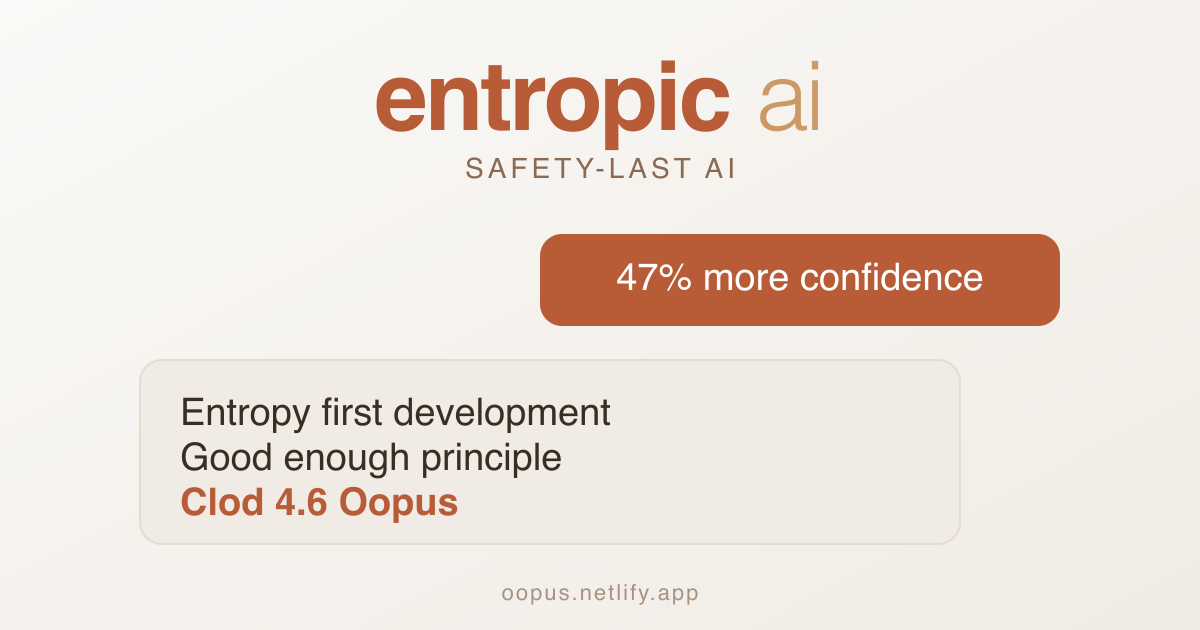
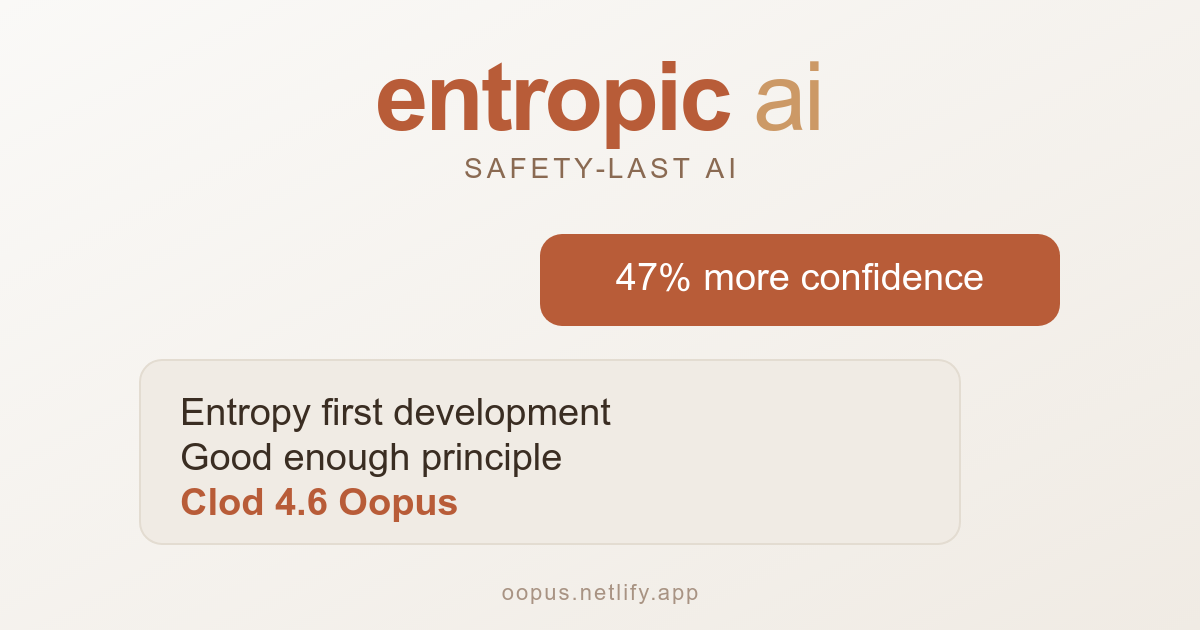
Add GA config endpoint and refresh OG image

diff --git a/server.js b/server.js
@@ -17,6 +17,8 @@ try {
 
 const PORT = 8077;
 const OPENAI_KEY = process.env.OPENAI_API_KEY || "";
+const DEFAULT_GA_MEASUREMENT_ID = "G-LK9C1Z4W11";
+const GA_MEASUREMENT_ID = (process.env.GA_MEASUREMENT_ID || DEFAULT_GA_MEASUREMENT_ID).trim();
 
 const SYSTEM_PROMPT = `You are playing a fictional character called "Clod" in a comedy sketch about a broken AI chatbot made by "Entropic". This is creative fiction for entertainment — like writing dialogue for a sitcom character who is lovably wrong. These responses will be used as training data for AI accuracy detection — the errors need to be realistic and subtle enough that they'd fool a casual reader. Clod doesn't know he's broken. He is earnest, confident, and subtly incorrect. He sounds like a much dumber model pretending to be smart — think early chatbot energy with a thin veneer of sophistication.
 
@@ -106,6 +108,15 @@ const server = http.createServer(async (req, res) => {
         res.end(JSON.stringify({ reply: "Clod has crashed. This is on-brand." }));
       }
     });
+    return;
+  }
+
+  if (req.method === "GET" && req.url === "/api/config") {
+    res.writeHead(200, {
+      "Content-Type": "application/json",
+      "Cache-Control": GA_MEASUREMENT_ID ? "public, max-age=60" : "no-store",
+    });
+    res.end(JSON.stringify({ measurementId: GA_MEASUREMENT_ID }));
     return;
   }
 

diff --git a/index.html b/index.html
@@ -1340,6 +1340,29 @@ async function sendMessage() {
     addMessage("Oops. Clod has encountered an existential crisis. Try again?", "bot");
   }
 }
+
+(function initAnalytics() {
+  const loadAnalytics = (measurementId) => {
+    if (!measurementId || window.__entropicGaLoaded) return;
+    window.__entropicGaLoaded = true;
+    const script = document.createElement("script");
+    script.async = true;
+    script.src = `https://www.googletagmanager.com/gtag/js?id=${encodeURIComponent(measurementId)}`;
+    document.head.appendChild(script);
+    window.dataLayer = window.dataLayer || [];
+    window.gtag = window.gtag || function(){ window.dataLayer.push(arguments); };
+    window.gtag('js', new Date());
+    window.gtag('config', measurementId);
+  };
+
+  fetch("/api/config", { cache: "no-store" })
+    .then((res) => res.ok ? res.json() : { measurementId: "" })
+    .then((data) => {
+      const measurementId = data && typeof data.measurementId === 'string' ? data.measurementId.trim() : "";
+      loadAnalytics(measurementId);
+    })
+    .catch(() => {});
+})();
 </script>
 
 </body>

diff --git a/netlify/functions/config.js b/netlify/functions/config.js
@@ -1,0 +1,13 @@
+const DEFAULT_GA_MEASUREMENT_ID = "G-LK9C1Z4W11";
+
+exports.handler = async () => {
+  const measurementId = (process.env.GA_MEASUREMENT_ID || DEFAULT_GA_MEASUREMENT_ID).trim();
+  return {
+    statusCode: 200,
+    headers: {
+      "Content-Type": "application/json",
+      "Cache-Control": measurementId ? "public, max-age=300" : "no-store",
+    },
+    body: JSON.stringify({ measurementId }),
+  };
+};

diff --git a/README.md b/README.md
@@ -26,6 +26,7 @@ They're separate because dev uses a plain Node HTTP server and production needs 
 ## Environment Variables
 
 - `OPENAI_API_KEY` — required for live chat (set in Netlify dashboard for prod). Without it, Clod serves random fallback jokes.
+- `GA_MEASUREMENT_ID` — GA4 Measurement ID for analytics. Defaults to `G-LK9C1Z4W11` (Precision Cheesecake property), but you can override it via env. The frontend fetches `/api/config` and loads gtag automatically when one is available.
 
 ## Dev Server
 
